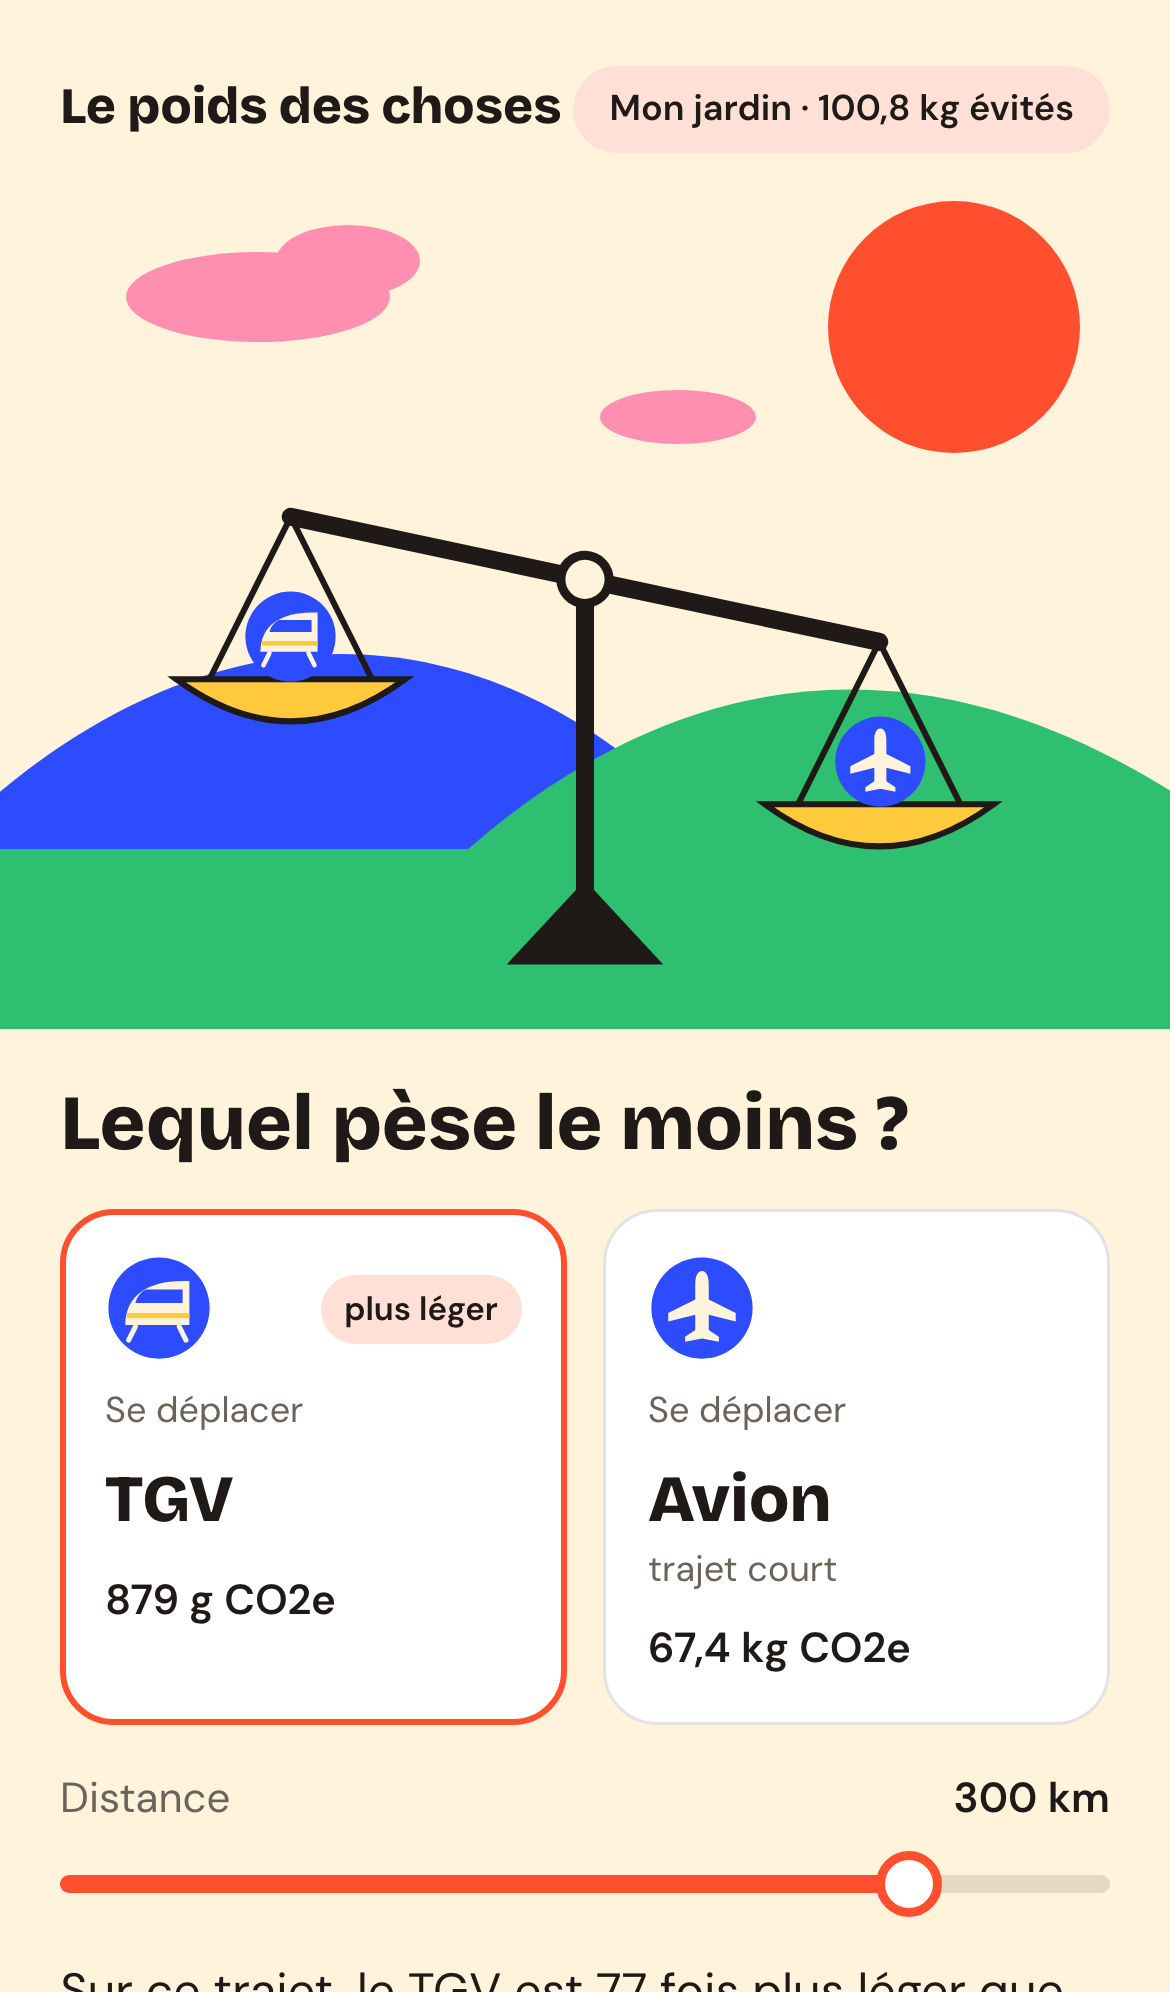
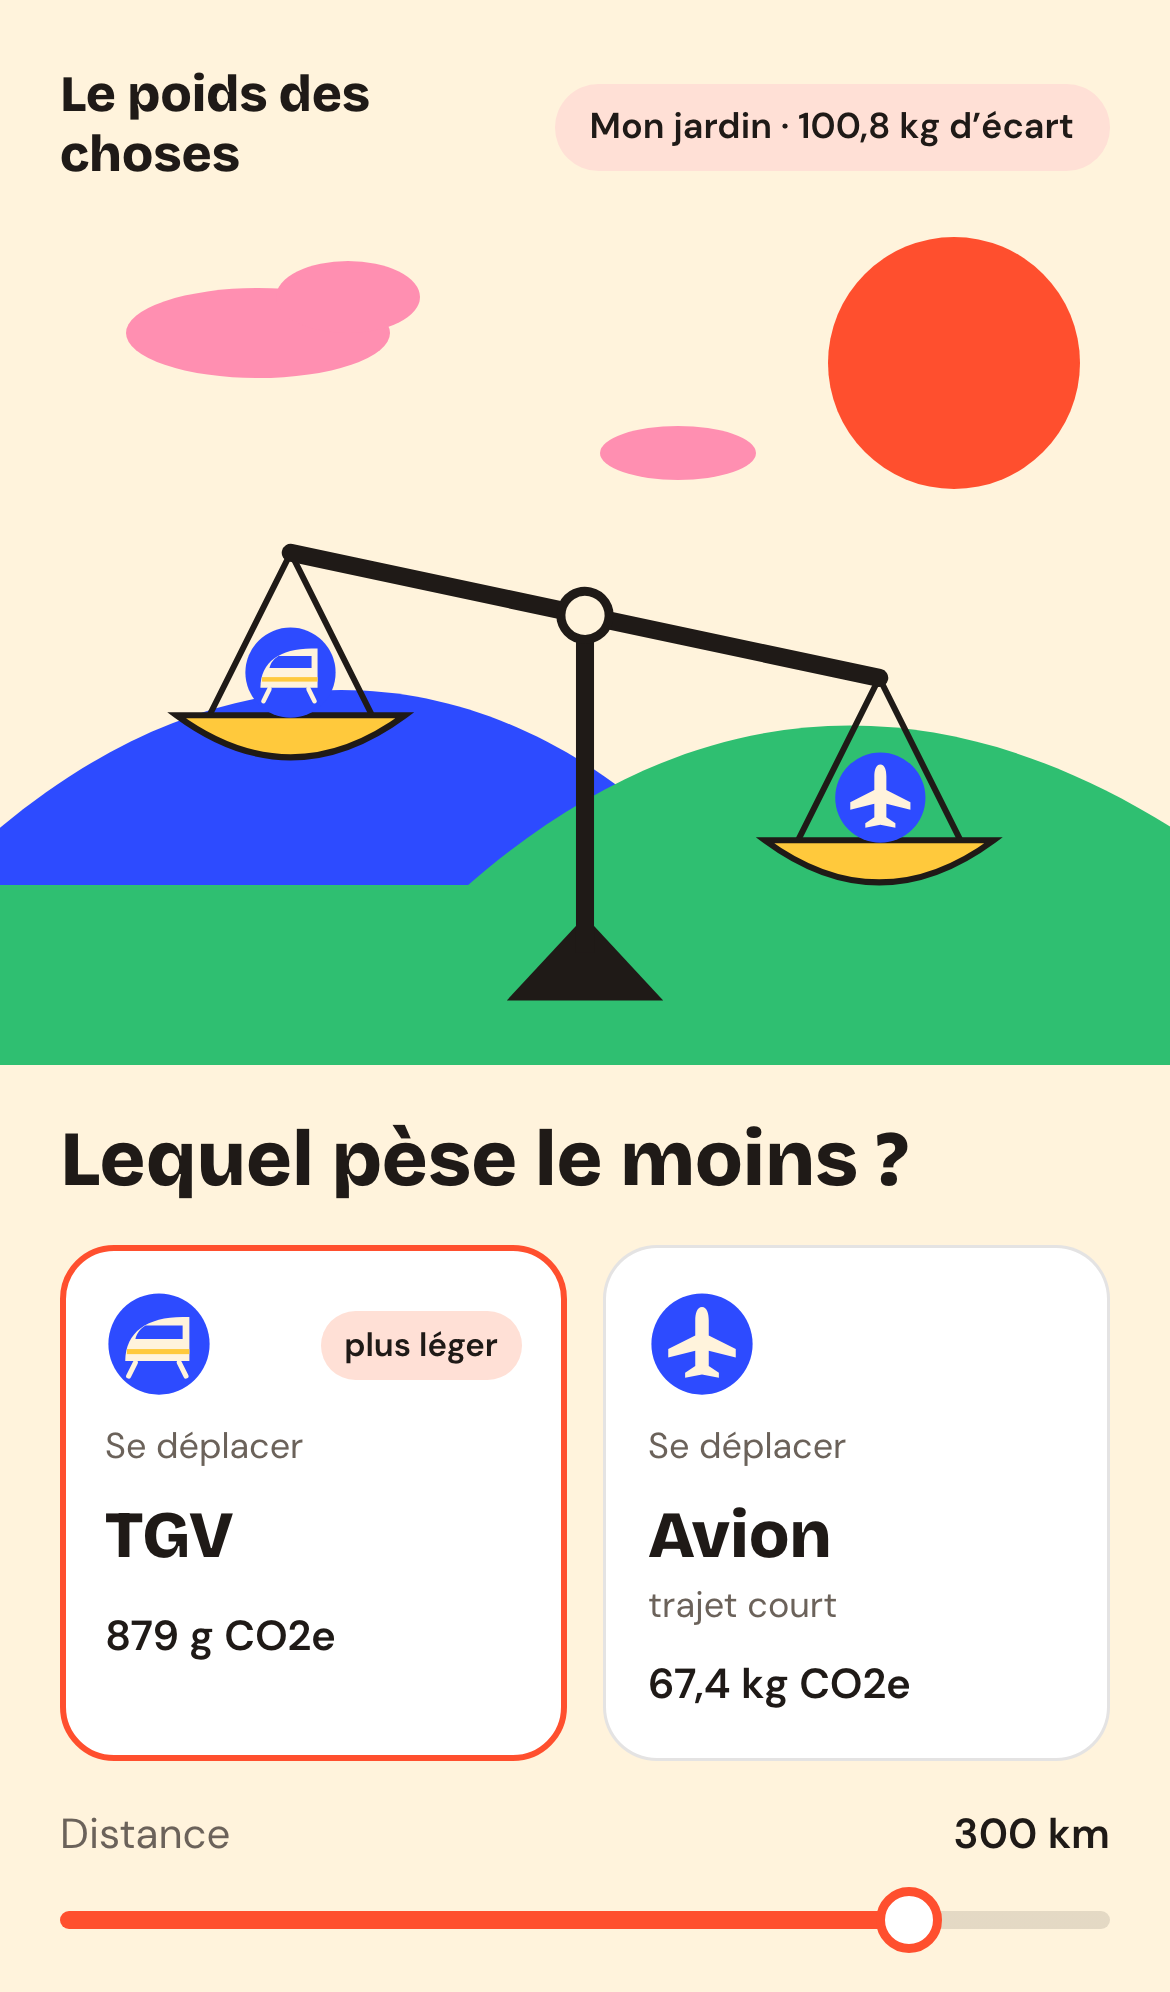
fix: formulation honnête, l'écart avec l'autre option au lieu des kg « évités »
- « X kg de CO2e d’écart avec les autres options » (bilan), « Mon jardin ·
  X kg d’écart » (pastille), « +X kg d’écart » (révélation) ; accueil,
  descriptions du site et de /jardin, faits « Le savais-tu ? », labo.
- /methode#ecart : le site ne mesure pas des kilos évités, seulement
  l'écart entre l'option choisie et l'autre option comparée.
- README, CLAUDE.md (règle d'écriture), commentaires et titres de tests ;
  le champ avoidedKg garde son nom (carnets et exports existants).
- Captures du duel et du jardin refaites ; journal.

diff --git a/src/lib/calc/modes.test.ts b/src/lib/calc/modes.test.ts
@@ -36,14 +36,14 @@ describe("modes d'acquisition", () => {
     );
     expect(emissions(withMode(jean, "garder")!, 2)).toBe(0);
   });
-  it("neuf vs garder : tout est évité en gardant, ratio null", () => {
+  it("neuf vs garder : l’écart vaut tout le neuf, ratio null", () => {
     const c = compareModes(jean, 1, "neuf", "garder")!;
     expect(c.lighter).toBe("b");
     expect(c.ratio).toBeNull();
     expect(avoidedKg(c, "b")).toBeCloseTo(jean.kgCo2ePerUnit);
     expect(avoidedKg(c, "a")).toBe(0);
   });
-  it("neuf vs occasion livrée : on évite neuf − colis", () => {
+  it("neuf vs occasion livrée : écart = neuf − colis", () => {
     const livre = jean.modes!["occasion-livree"]!.kgCo2e;
     const c = compareModes(jean, 1, "neuf", "occasion-livree")!;
     expect(c.differenceKg).toBeCloseTo(jean.kgCo2ePerUnit - livre);
@@ -54,7 +54,7 @@ describe("modes d'acquisition", () => {
     expect(c.lighter).toBe("b");
     expect(c.differenceKg).toBeCloseTo(jean.modes!["occasion-livree"]!.kgCo2e);
   });
-  it("deux modes à 0 (occasion vs garder) : égaux, rien d'évité", () => {
+  it("deux modes à 0 (occasion vs garder) : égaux, aucun écart", () => {
     const c = compareModes(jean, 1, "occasion", "garder")!;
     expect(c.differenceKg).toBe(0);
     expect(c.almostEqual).toBe(true);

diff --git a/src/lib/data/types.ts b/src/lib/data/types.ts
@@ -39,7 +39,7 @@ export type ModeValue = {
   /** Présent quand la valeur vient directement d'une ligne du CSV. */
   sourceId?: string;
   sourceUrl?: string;
-  /** Détail quand la valeur additionne plusieurs éléments (ex. fabrication évitée + colis). */
+  /** Détail quand la valeur additionne plusieurs éléments (ex. pas de fabrication + colis). */
   parts?: ValuePart[];
 };
 
@@ -75,7 +75,11 @@ export type JournalEntry = {
   gestureB: string;
   quantity: number;
   chosen: Choice;
-  /** kg CO2e évités par ce choix (0 si on a pris le plus lourd), figés au moment du choix. */
+  /**
+   * Écart en kg CO2e avec l'autre option comparée (0 si on a pris le plus lourd), figé au
+   * moment du choix. Le nom du champ est gardé (carnets et exports existants) ; ce n'est pas
+   * un gain mesuré.
+   */
   avoidedKg: number;
   /** Objets uniquement : mode d'acquisition de chaque côté (même objet, deux modes). */
   modeA?: AcquisitionMode;

diff --git a/src/lib/facts/templates.ts b/src/lib/facts/templates.ts
@@ -121,7 +121,7 @@ export const FACT_TEMPLATES: readonly FactTemplate[] = [
     compute: ([jean]) =>
       compareModes(jean, 1, "neuf", "garder")?.differenceKg ?? 0,
     text: (mass) =>
-      `Garder ton jean plutôt qu’en acheter un neuf évite ${mass} de CO2e.`,
+      `Garder ton jean plutôt qu’en acheter un neuf, c’est ${mass} de CO2e d’écart.`,
   }),
   productFact({
     // La donnée distingue l'import par avion et par bateau pour la mangue seulement.
@@ -139,7 +139,7 @@ export const FACT_TEMPLATES: readonly FactTemplate[] = [
     compute: ([domicile, relais]) =>
       compare(domicile, 1, relais, 1).differenceKg,
     text: (mass) =>
-      `Aller à pied au point relais plutôt que te faire livrer à domicile évite ${mass} de CO2e par colis.`,
+      `Aller à pied au point relais plutôt que te faire livrer à domicile, c’est ${mass} de CO2e d’écart par colis.`,
   }),
 ];
 

diff --git a/src/lib/calc/compare.ts b/src/lib/calc/compare.ts
@@ -7,7 +7,7 @@ const ALMOST_EQUAL_RATIO = 0.1;
 export type Comparison = {
   emissionsA: number;
   emissionsB: number;
-  /** Côté le plus léger. À égalité, 'a' (l'écart vaut alors 0, donc rien n'est évité). */
+  /** Côté le plus léger. À égalité, 'a' (l'écart vaut alors 0, rien n'est compté). */
   lighter: Choice;
   heavier: Choice;
   differenceKg: number;
@@ -42,7 +42,10 @@ export function compare(
   };
 }
 
-/** kg évités par un choix : (lourd − léger) si on prend le plus léger, sinon 0. Jamais négatif. */
+/**
+ * Écart compté pour un choix : (lourd − léger) si on prend le plus léger, sinon 0. Jamais
+ * négatif. Ce n'est pas un gain mesuré : seulement l'écart avec l'autre option comparée.
+ */
 export function avoidedKg(comparison: Comparison, chosen: Choice): number {
   return chosen === comparison.lighter ? comparison.differenceKg : 0;
 }

diff --git a/src/components/labo/JournalSimulator.tsx b/src/components/labo/JournalSimulator.tsx
@@ -10,7 +10,7 @@ import type { NewEntry } from "@/lib/journal";
 import { useJournal } from "@/lib/journal/useJournal";
 import { Panel, ToggleButton } from "./ui";
 
-// Choix types, calculés avec les vraies données (kg évités indicatifs).
+// Choix types, calculés avec les vraies données (écarts indicatifs).
 const PRESETS: { label: string; entry: NewEntry }[] = [
   {
     label: "Choix léger · petit (vélo plutôt que voiture, 3 km)",
@@ -62,7 +62,7 @@ export function JournalSimulator() {
       <p className="text-corps-s text-encre font-semibold">
         {journal.entries.length} choix · {garden.plants.length} plantes ·{" "}
         {garden.unlocked.length} animaux · {formatMass(garden.totalAvoidedKg)}{" "}
-        évités
+        d’écart
         {garden.asleep ? " · assoupi" : ""}
       </p>
       <div className="flex flex-wrap gap-2">

diff --git a/src/components/ui/GardenPill.tsx b/src/components/ui/GardenPill.tsx
@@ -4,13 +4,13 @@ import Link from "next/link";
 import { formatMass } from "@/lib/calc";
 import { useJournal } from "@/lib/journal/useJournal";
 
-/** Pastille « Mon jardin · X kg évités » de la barre du haut (maquette 03). */
+/** Pastille « Mon jardin · X kg d’écart » de la barre du haut (maquette 03, formulation honnête). */
 export function GardenPill() {
   const { totals, ready } = useJournal();
-  // Rien d'évité pour l'instant : pas de « 0 g évités ».
+  // Aucun écart pour l'instant : pas de « 0 g d’écart ».
   const label =
     ready && totals.totalAvoidedKg > 0
-      ? `Mon jardin · ${formatMass(totals.totalAvoidedKg)} évités`
+      ? `Mon jardin · ${formatMass(totals.totalAvoidedKg)} d’écart`
       : "Mon jardin";
   return (
     <Link

diff --git a/src/lib/journal/journal.test.ts b/src/lib/journal/journal.test.ts
@@ -157,7 +157,7 @@ describe("ajout, export, import", () => {
 
 describe("createEntry", () => {
   const now = new Date("2026-10-04T10:00:00Z");
-  it("calcule et fige les kg évités (choix léger)", () => {
+  it("calcule et fige l’écart (choix léger)", () => {
     const e = createEntry(
       { gestureA: "avion", gestureB: "tgv", quantity: 100, chosen: "b" },
       { now, id: "e1" },
@@ -165,7 +165,7 @@ describe("createEntry", () => {
     expect(e).toMatchObject({ id: "e1", date: now.toISOString(), chosen: "b" });
     expect(e.avoidedKg).toBeGreaterThan(20);
   });
-  it("choix lourd : 0 kg évité", () => {
+  it("choix lourd : écart de 0 kg", () => {
     expect(
       createEntry({
         gestureA: "avion",

diff --git a/src/app/methode/page.tsx b/src/app/methode/page.tsx
@@ -145,7 +145,13 @@ export default function MethodePage() {
       <Section id="jardin" title="Et ton jardin ?">
         <p>
           Il ne montre que les choix que tu notes ici. Ce n’est pas ton
-          empreinte carbone, juste une trace de ce que tu as évité.
+          empreinte carbone, juste la trace des écarts entre les options que tu
+          as comparées.
+        </p>
+        <p id="ecart" className="scroll-mt-6">
+          Le site ne mesure pas des kilos évités ou économisés : il compte
+          l’écart entre l’option que tu choisis et l’autre option comparée, sans
+          savoir ce que tu aurais fait sans lui.
         </p>
       </Section>
 

diff --git a/src/lib/compare/compare.test.ts b/src/lib/compare/compare.test.ts
@@ -332,7 +332,7 @@ describe("URL partageable", () => {
 
 describe("ajout au carnet depuis le duel", () => {
   const now = new Date("2026-10-05T10:00:00Z");
-  it("choix léger : kg évités = écart", () => {
+  it("choix léger : écart compté = écart", () => {
     const entry = createEntry(duelEntry("avion", "tgv", 300, "b"), {
       now,
       id: "1",
@@ -360,7 +360,7 @@ describe("ajout au carnet depuis le duel", () => {
       2,
     );
   });
-  it("objet gardé : tout le neuf est évité", () => {
+  it("objet gardé : l’écart vaut tout le neuf", () => {
     const entry = createEntry(objectEntry("television", "garder", false), {
       now,
     });

diff --git a/src/components/garden/GardenScreen.tsx b/src/components/garden/GardenScreen.tsx
@@ -157,7 +157,8 @@ export function GardenScreen() {
                 <CountUp value={garden.totalAvoidedKg} format={formatMass} />
               </p>
               <p className="text-corps-s text-texte-attenue leading-[1.4]">
-                de CO2e évités depuis ton premier choix
+                de CO2e d’écart avec les autres options, depuis ton premier
+                choix
               </p>
               <p className="text-corps-s text-encre flex flex-wrap gap-x-4 gap-y-1 pt-2 leading-[1.3] font-semibold">
                 <span>

diff --git a/src/components/home/HomeScreen.tsx b/src/components/home/HomeScreen.tsx
@@ -5,7 +5,7 @@ import { HomeScene } from "./HomeScene";
 import { SeasonTeaser } from "@/components/saison/SeasonTeaser";
 
 const INTRO =
-  "Avant un trajet, un repas ou un achat, pose deux options sur la balance. Ton jardin grandit avec tout ce que tu évites.";
+  "Avant un trajet, un repas ou un achat, pose deux options sur la balance. Ton jardin grandit chaque fois que tu choisis la plus légère.";
 
 /** Accueil : écran 01 sur mobile, 07 sur ordinateur (navigation + héros sur deux colonnes). */
 export function HomeScreen() {

diff --git a/e2e/journeys.spec.ts b/e2e/journeys.spec.ts
@@ -197,7 +197,7 @@ test("objet : neuf, d'occasion (livré par défaut) et je garde le mien", async 
   ).toBeChecked();
   await expect(page.getByText(/aucune nouvelle fabrication/)).toBeVisible();
   await page.getByRole("button", { name: "Je garde le mien" }).click();
-  await expect(page.getByText("+25,1 kg évités")).toBeVisible();
+  await expect(page.getByText("+25,1 kg d’écart")).toBeVisible();
 });
 
 test("export puis import du carnet, sans doublon", async ({ page }) => {
